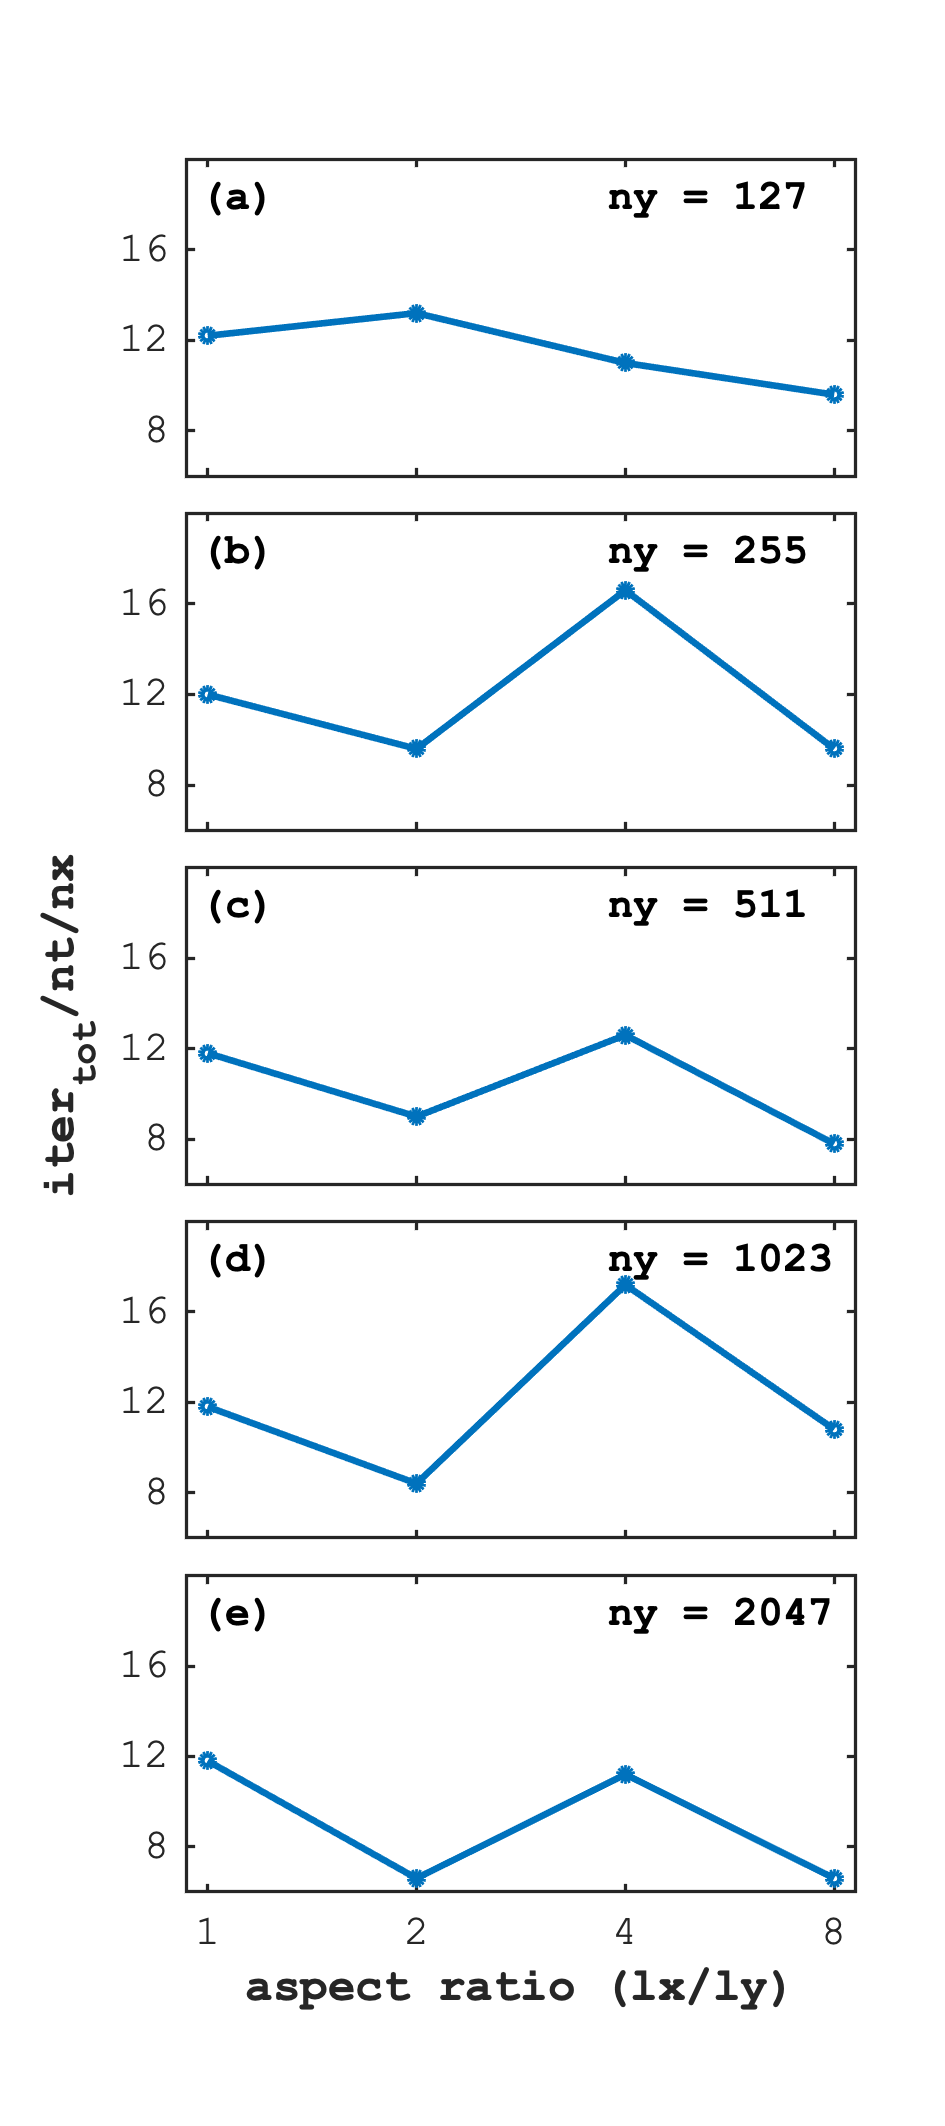
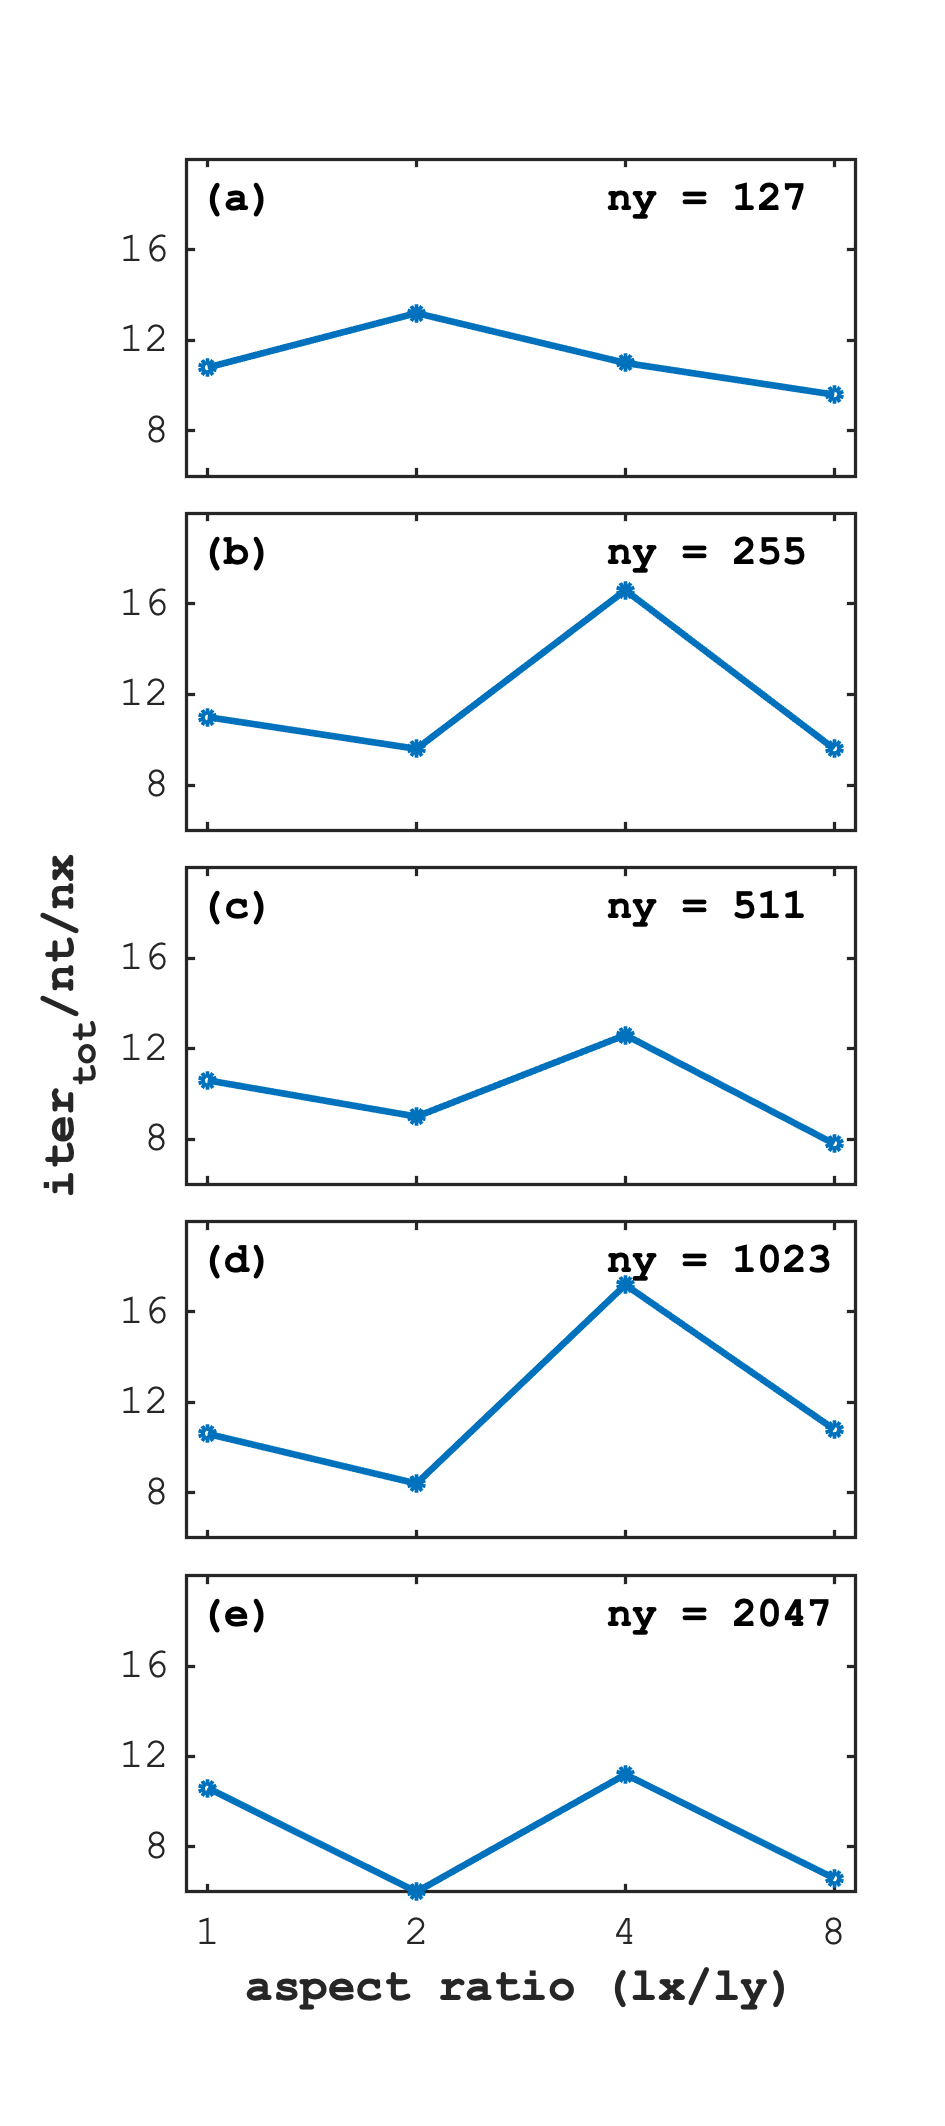
Update aspect ratio plot

diff --git a/visu/viz_stokes_param_aspect.m b/visu/viz_stokes_param_aspect.m
@@ -4,7 +4,7 @@ fs = 10;                           % font size
 % figure parameters
 nt       = 5;
 sims     = {'aspect_ratio'};
-fact     = [0.6, 0.5, 0.4, 0.3, 0.2, 0.1];
+fact     = [1.0, 0.9, 0.8, 0.7, 0.6, 0.5, 0.4, 0.3, 0.2, 0.1];
 subs     = [1 2 4 8];                       % number of grid subdivisions
 resol    = [127, 255, 511, 1023, 2047];
 % vis
